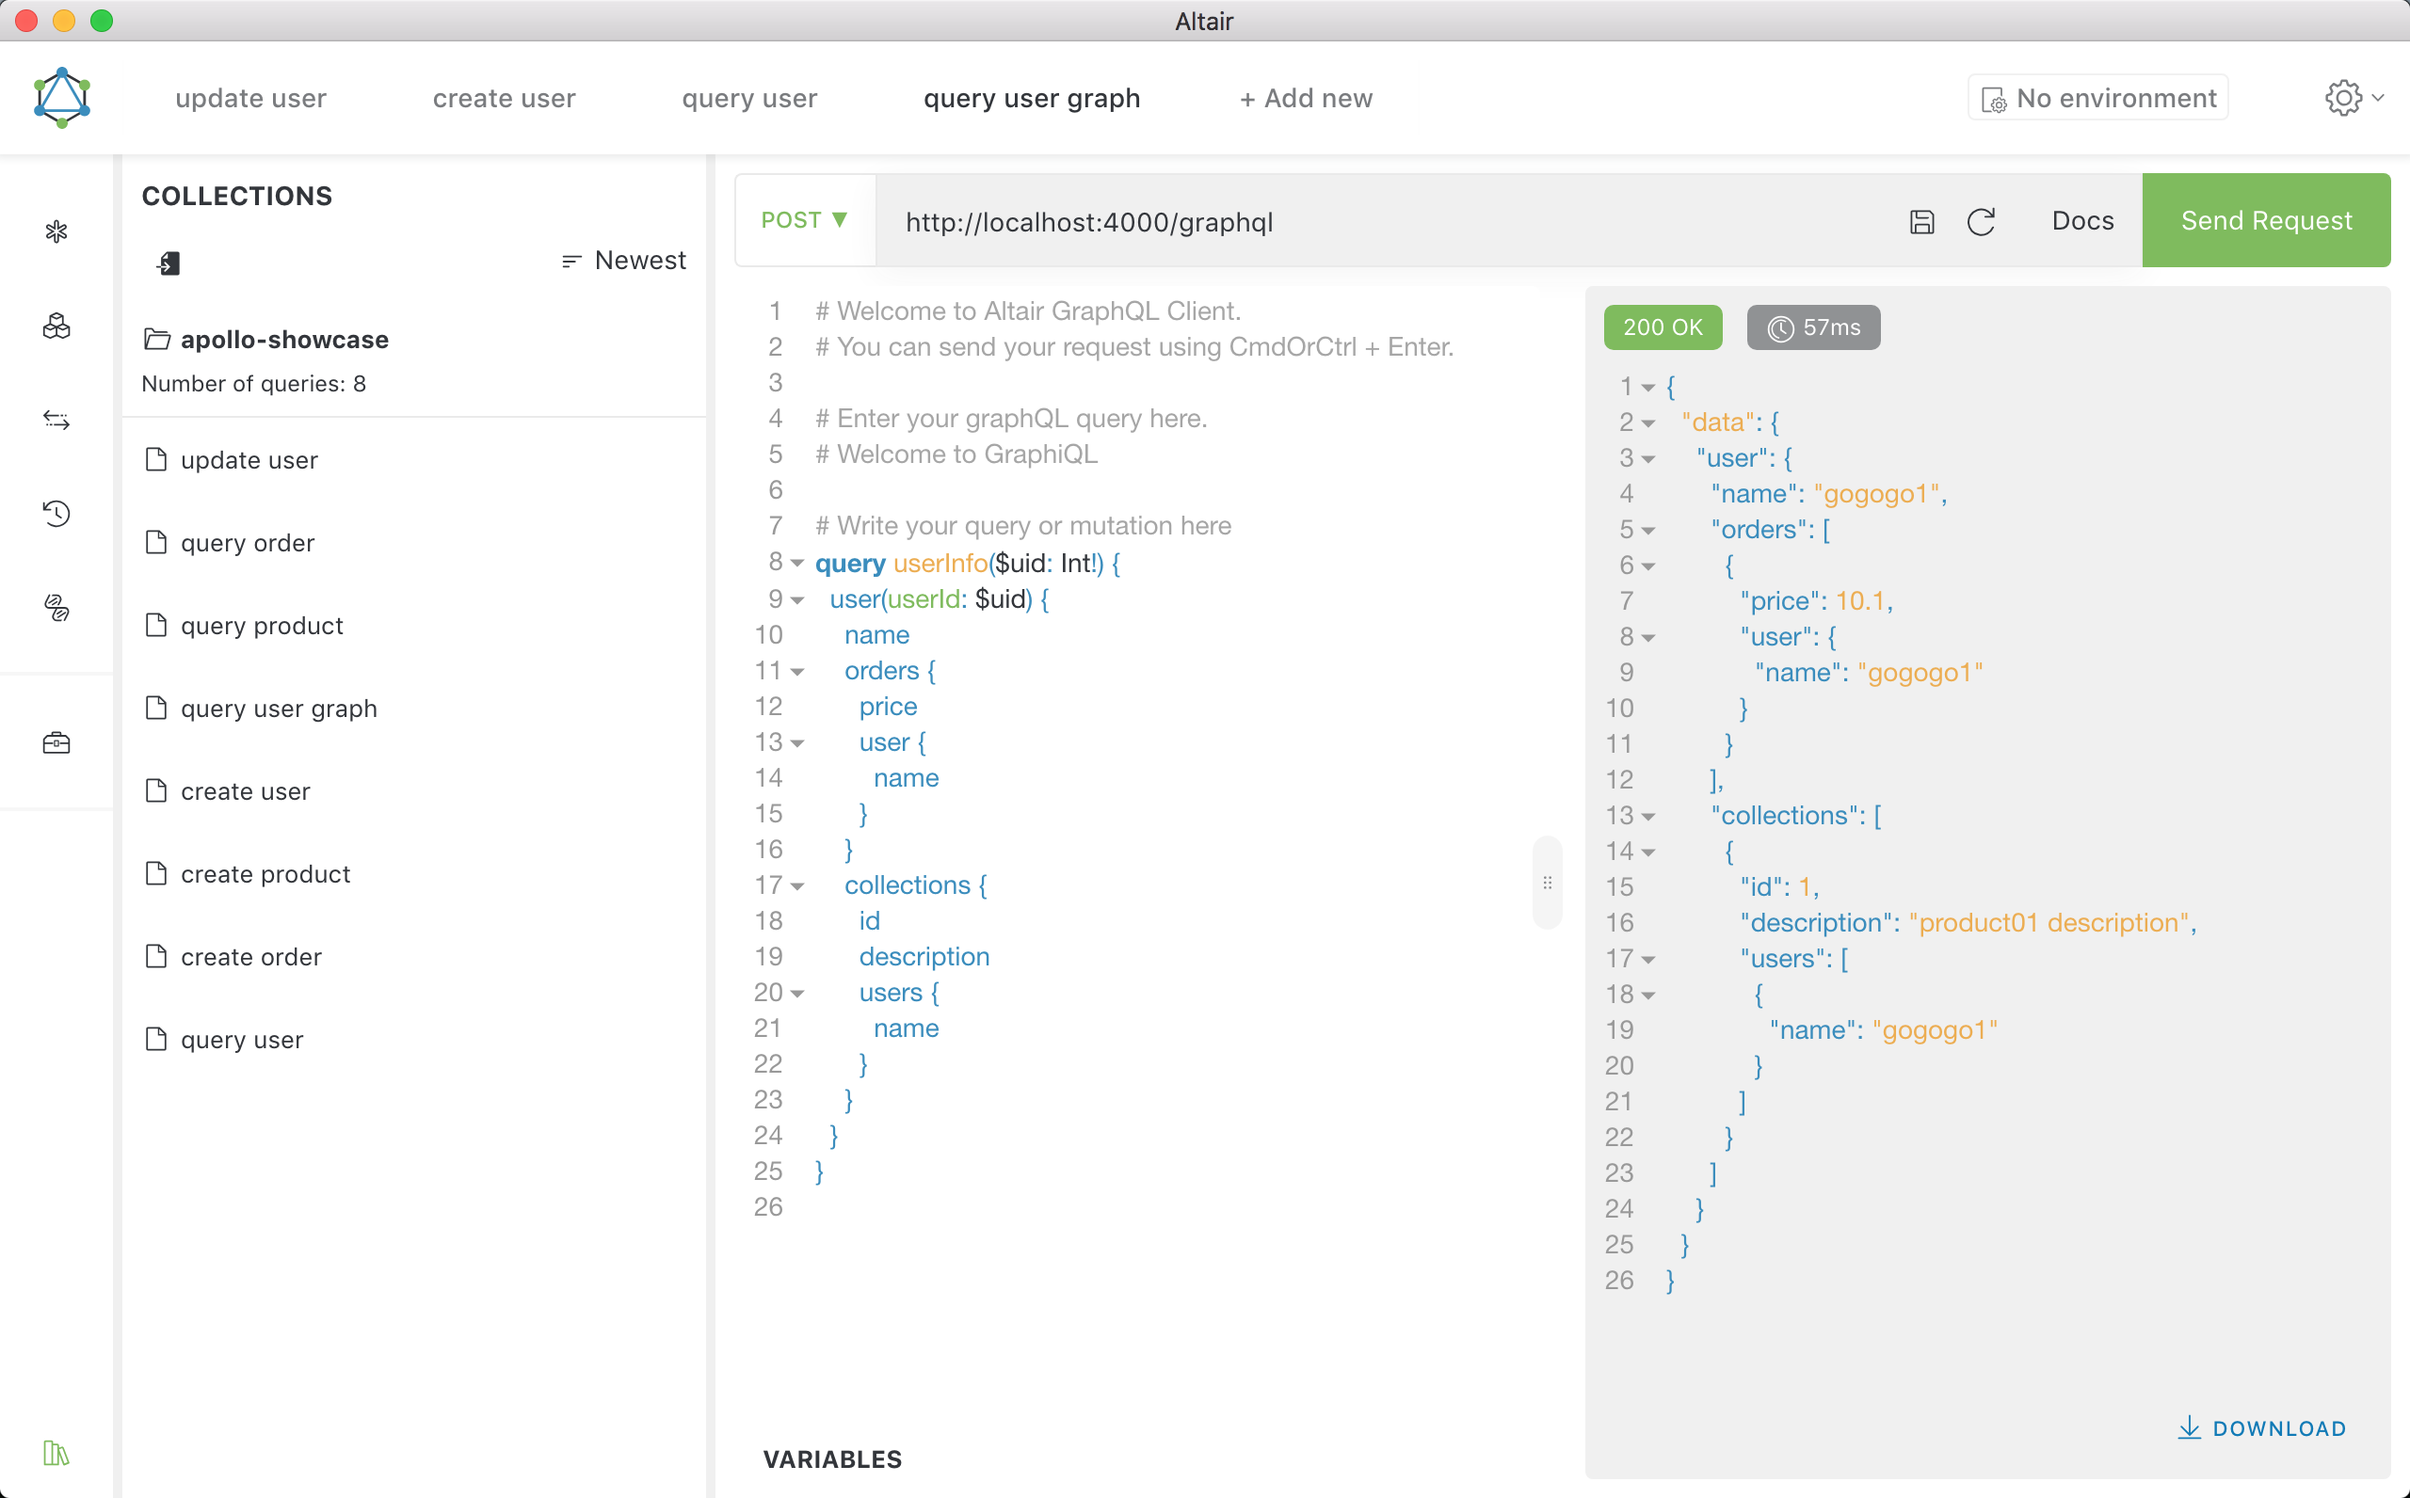
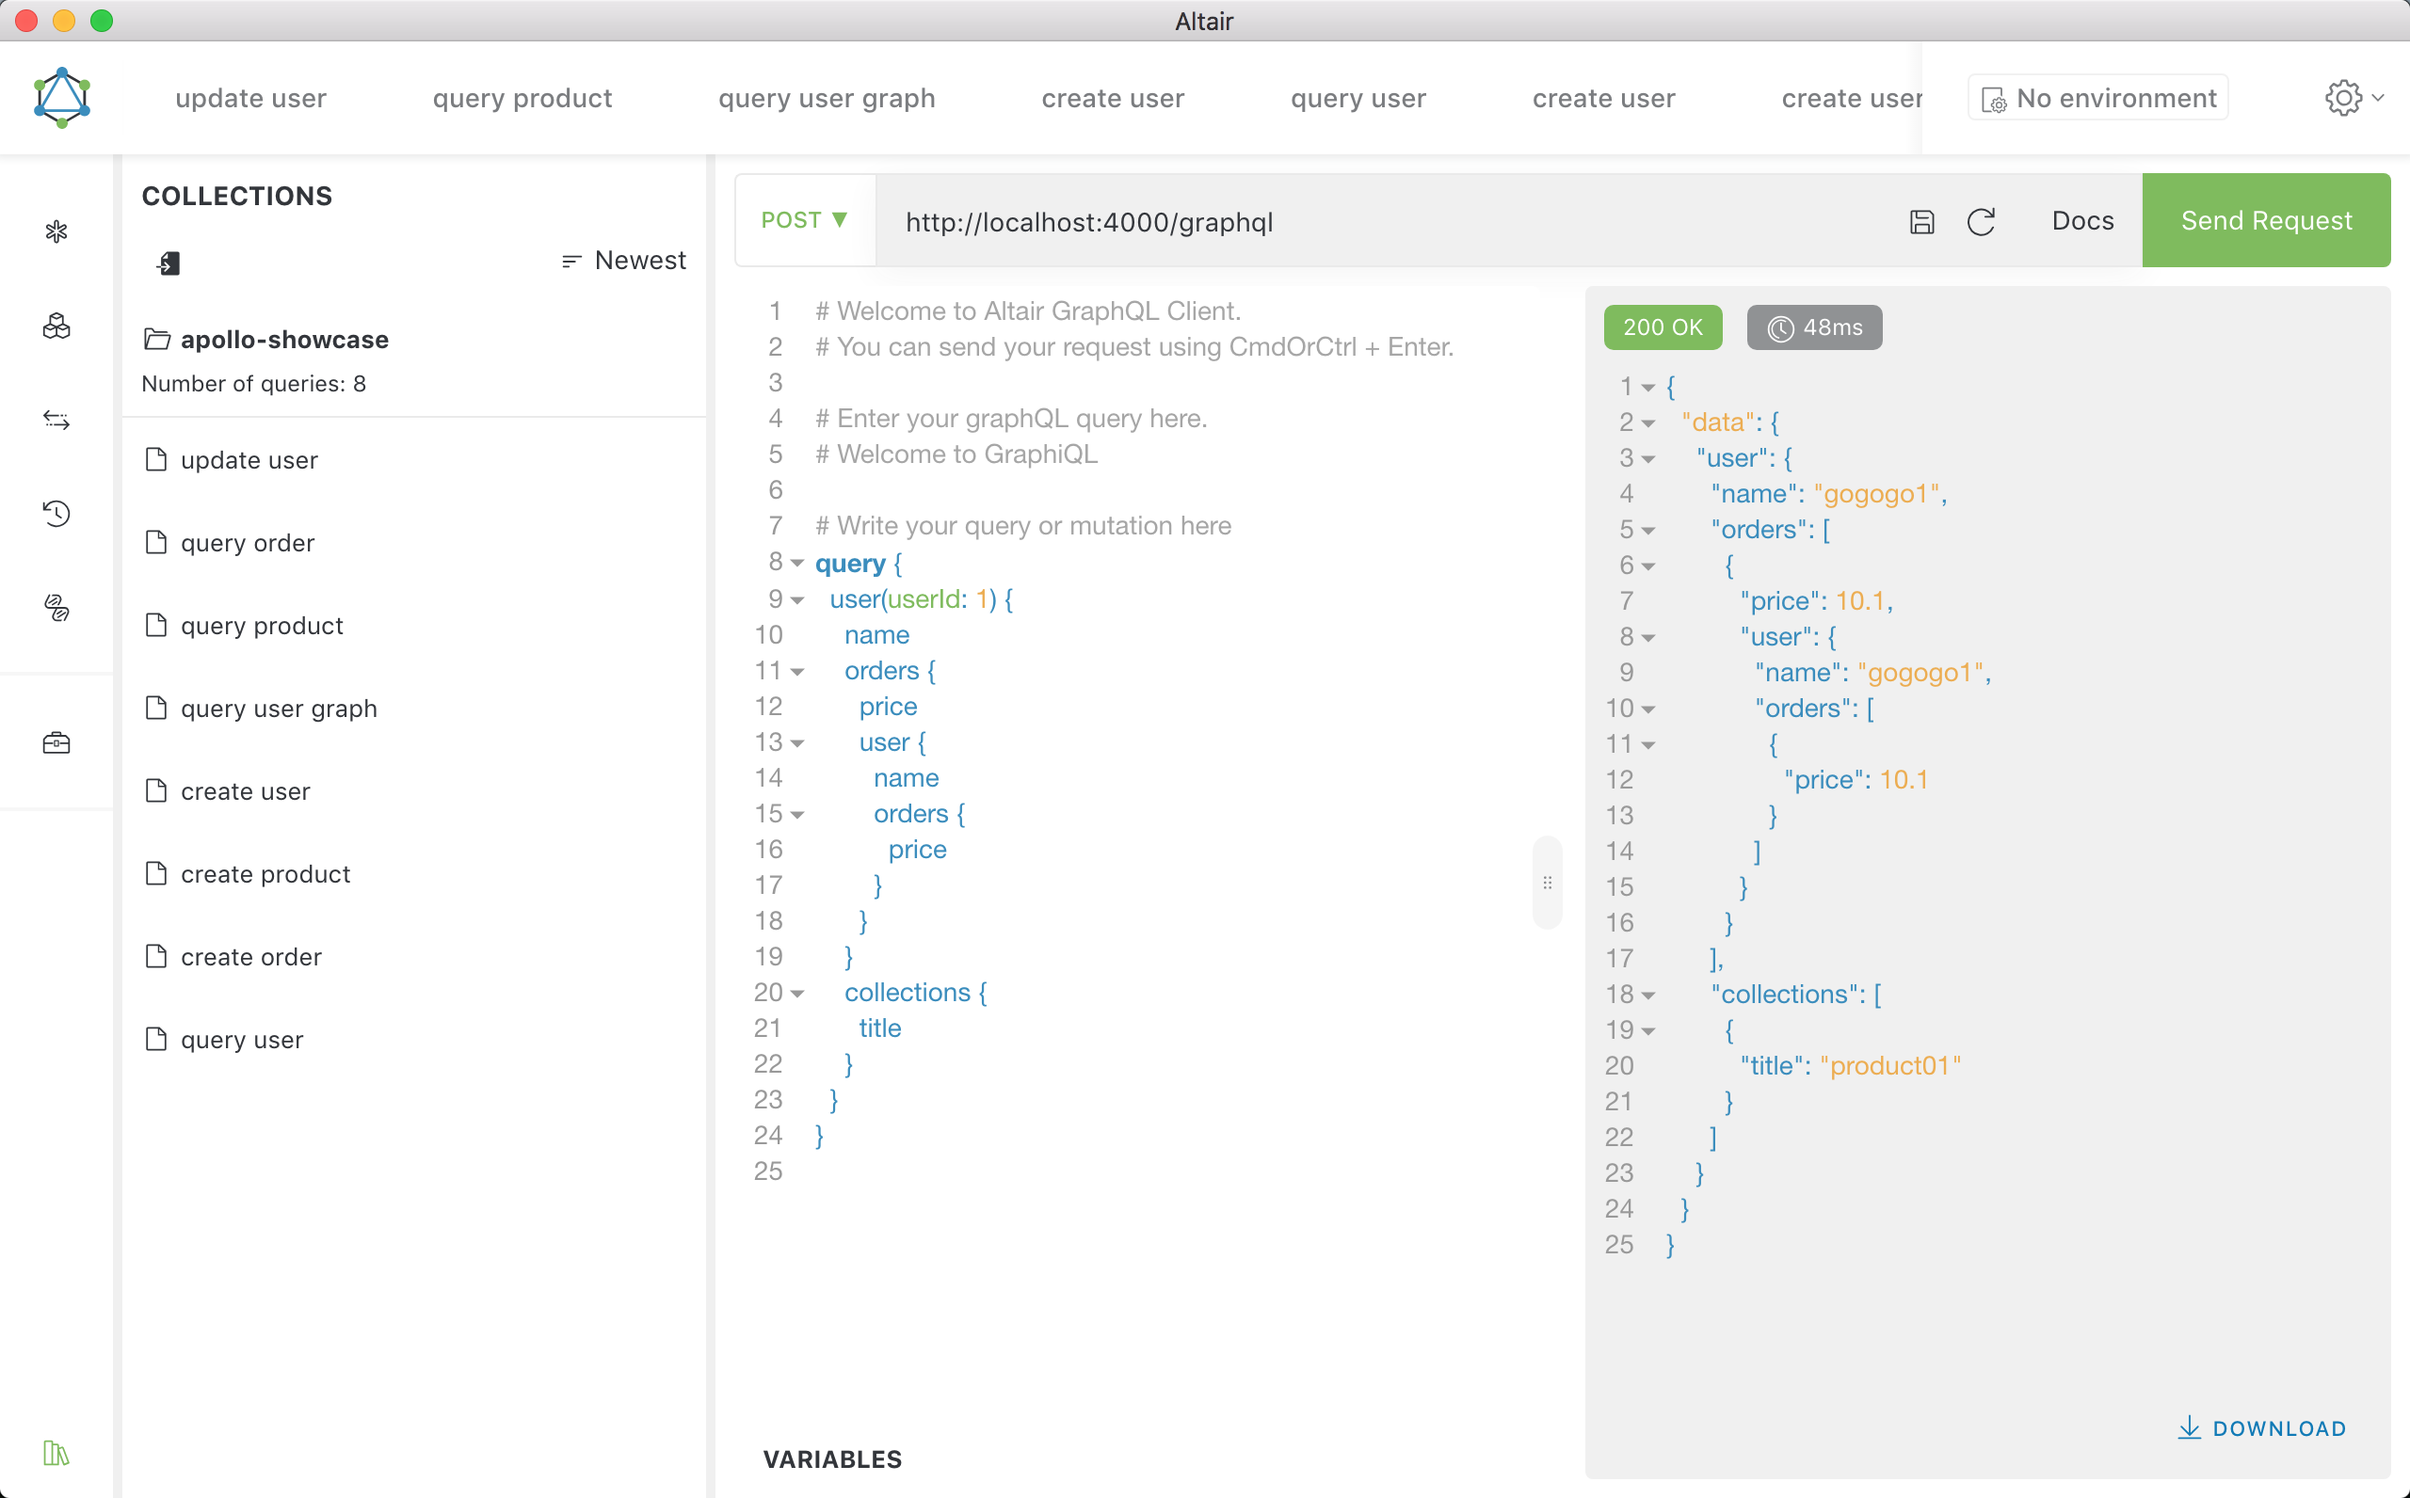
doc(README): update examples

diff --git a/README.md b/README.md
@@ -17,14 +17,20 @@ npm run start:json
 
 *Tips: project does not have hot module reload, if you have modify the code, you need to rebuild it & db.json will be reset.
 
-## Usage
+## Examples
 
-**[Altair GraphQL Client](https://altair.sirmuel.design) is recommended for debugging.**
+- [create user](#create-user)
+- [query user](#query-user)
+- [query user graph](#query-user-graph)
+
+[Altair GraphQL Client](https://altair.sirmuel.design) is recommended for debugging.
 
 ### Create user
 
+<a href="#examples" style="font-size: 14px">↥ back to examples</a>
+
 ```gql
-mutation CreateUser($body: UserInput!) {
+mutation createUser($body: UserInput!) {
   createUser(body: $body) {
     name
   }
@@ -43,9 +49,11 @@ variables:
 }
 ```
 
-![create user](./guide/create-user-2.png)
+![create user](./guide/create-user.png)
 
 ### Query user
+
+<a href="#examples" style="font-size: 14px">↥ back to examples</a>
 
 ```gql
 query {
@@ -55,36 +63,29 @@ query {
 }
 ```
 
-![query user](./guide/query-user-2.png)
+![query user](./guide/query-user.png)
 
 ### Query user graph
 
+<a href="#examples" style="font-size: 14px">↥ back to examples</a>
+
 ```gql
-query userInfo($uid: Int!) {
-  user(userId: $uid) {
+query {
+  user(userId: 1) {
     name
     orders {
       price
       user {
         name
+        orders {
+          price
+        }
       }
     }
     collections {
-      id
-      description
-      users {
-        name
-      }
+      title
     }
   }
-}
-```
-
-variables:
-
-```json
-{
-  "uid": 1
 }
 ```
 
